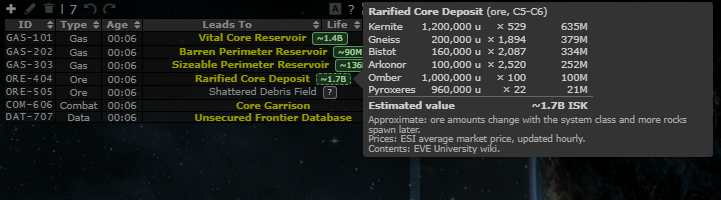
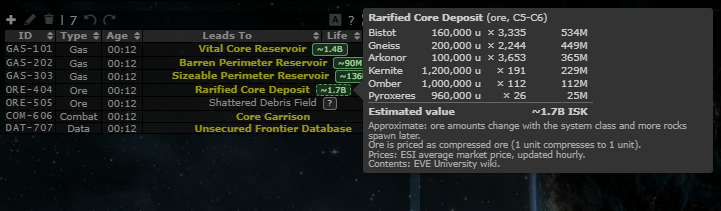
Site value: price ore as compressed ore; refetch prices when the wanted items change

Changed region(s): [[0.0, 0.0, 1.0, 0.63], [0.4577, 0.57, 1.0, 0.84]]

diff --git a/app/js/fork/site-values.js b/app/js/fork/site-values.js
@@ -72,11 +72,12 @@ const siteValues = {
 			const type = data.types && data.types[String(row[0])];
 			const units = Number(row[1]);
 			if (!type || !(units > 0)) { return; }
-			const p = siteValues.priceOf(row[0], live, fallback);
+			// Ore is priced as its compressed form (priceAs), 1 unit for 1 unit: raw ore hardly trades
+			const p = siteValues.priceOf(type.priceAs || row[0], live, fallback);
 			if (!p) { out.missing.push(type.name); return; }
 			if (!p.live) { out.live = false; }
 			const isk = units * p.price;
-			out.lines.push({ name: String(type.name), units: units, m3: units * (Number(type.m3) || 0), price: p.price, isk: isk });
+			out.lines.push({ name: String(type.name), units: units, m3: units * (Number(type.m3) || 0), price: p.price, isk: isk, compressed: !!type.priceAs });
 			out.total += isk;
 		});
 		if (!out.lines.length) { out.status = "unverified"; out.live = false; }
@@ -131,6 +132,7 @@ const siteValues = {
 		const notes = [];
 		if (site.kind === "gas") { notes.push("Two clouds; Sleepers usually arrive 15-20 min after the first ship lands."); }
 		if (est.status === "approximate") { notes.push("Approximate: ore amounts change with the system class and more rocks spawn later."); }
+		if (est.lines.some(function(l) { return l.compressed; })) { notes.push("Ore is priced as compressed ore (1 unit compresses to 1 unit)."); }
 		if (est.missing.length) { notes.push("No price for " + e(est.missing.join(", ")) + "."); }
 		notes.push(est.live ? "Prices: ESI average market price, updated hourly." : "Prices: ESI average market price of " + e(pricesDate || "an earlier date") + " (live prices unavailable).");
 		notes.push("Contents: EVE University wiki.");

diff --git a/app/js-test/fork/site-values.test.js b/app/js-test/fork/site-values.test.js
@@ -60,6 +60,15 @@ describe('Gas and ore site value', () => {
 		assert.strictEqual(mixed.live, false);
 	});
 
+	it('prices ore as its compressed form when the type says so', () => {
+		const d = Object.assign({}, data, { types: Object.assign({}, data.types, { 3: { name: 'Rock', m3: 16, priceAs: 9 } }) });
+		const est = siteValues.estimate(index['rarified core deposit'], d, { 3: 1, 9: 3000 });
+		assert.strictEqual(est.total, 100000 * 3000);
+		assert.strictEqual(est.lines[0].compressed, true);
+		assert.ok(siteValues.tooltip(index['rarified core deposit'], est).indexOf('priced as compressed ore') > 0);
+		assert.strictEqual(siteValues.estimate(index['rarified core deposit'], d, null).missing[0], 'Rock');
+	});
+
 	it('lists items without any price and leaves them out of the total', () => {
 		const d = Object.assign({}, data, { fallbackPrices: { prices: { 2: 50000 } } });
 		const est = siteValues.estimate(index['vital core reservoir'], d, null);
@@ -146,8 +155,10 @@ describe('Gas and ore site data (public/site-values/sites.json)', () => {
 		});
 		Object.keys(data.types).forEach(id => {
 			assert.ok(data.types[id].m3 > 0, id);
-			assert.ok(data.fallbackPrices.prices[id] > 0, 'price of ' + id);
+			assert.ok(data.fallbackPrices.prices[data.types[id].priceAs || id] > 0, 'price of ' + id);
 		});
+		// every ore is priced as its compressed form
+		data.sites.filter(s => s.kind === 'ore' && s.contents).forEach(s => s.contents.forEach(([id]) => assert.ok(data.types[id].priceAs, s.name + ': ' + id)));
 	});
 
 	it('gives every verified gas site a value with the stored prices', () => {

diff --git a/market_prices.inc.php b/market_prices.inc.php
@@ -20,7 +20,11 @@ function market_prices_types(?string $sitesFile = null) {
 	$data = json_decode((string) @file_get_contents($sitesFile), true);
 	$ids = array();
 	if (is_array($data) && isset($data['types']) && is_array($data['types'])) {
-		foreach (array_keys($data['types']) as $id) if (ctype_digit((string) $id)) $ids[(int) $id] = true;
+		foreach ($data['types'] as $id => $type) {
+			if (ctype_digit((string) $id)) $ids[(int) $id] = true;
+			// ore is priced as its compressed form
+			if (is_array($type) && isset($type['priceAs']) && ctype_digit((string) $type['priceAs'])) $ids[(int) $type['priceAs']] = true;
+		}
 	}
 	return $ids;
 }
@@ -50,6 +54,7 @@ function market_prices_normalise($cache) {
 		'fetched'   => isset($cache['fetched']) && is_numeric($cache['fetched']) ? (int) $cache['fetched'] : 0,
 		'attempted' => isset($cache['attempted']) && is_numeric($cache['attempted']) ? (int) $cache['attempted'] : 0,
 		'prices'    => $prices,
+		'types'     => isset($cache['types']) && is_string($cache['types']) ? $cache['types'] : '',
 	);
 }
 
@@ -90,7 +95,11 @@ function market_prices_get(?callable $fetch = null, $now = null, ?string $file =
 	$now = $now ?? time();
 	$file = $file ?? market_prices_cache_file();
 	$cache = market_prices_read($file);
-	$due = function($c) use ($now) { return $now - $c['fetched'] >= MARKET_PRICES_TTL && $now - $c['attempted'] >= MARKET_PRICES_RETRY; };
+	$wanted = $wanted ?? market_prices_types();
+	ksort($wanted);
+	$types = implode(',', array_keys($wanted));
+	// due after the TTL, or at once when sites.json now wants other items than the copy has; never within the retry wait
+	$due = function($c) use ($now, $types) { return ($now - $c['fetched'] >= MARKET_PRICES_TTL || $c['types'] !== $types) && $now - $c['attempted'] >= MARKET_PRICES_RETRY; };
 
 	if ($due($cache)) {
 		$lock = @fopen(preg_replace('/(\.json)?$/', '.lock.json', $file, 1), 'c');
@@ -98,11 +107,12 @@ function market_prices_get(?callable $fetch = null, $now = null, ?string $file =
 			try {
 				$cache = market_prices_read($file);   // another request may have refreshed meanwhile
 				if ($due($cache)) {
-					[$prices, $error] = $fetch($wanted ?? market_prices_types());
+					[$prices, $error] = $fetch($wanted);
 					$cache['attempted'] = $now;
 					if ($prices !== null) {
 						$cache['fetched'] = $now;
 						$cache['prices'] = $prices;
+						$cache['types'] = $types;
 					} else {
 						esi_log('market prices refresh failed: ' . $error);
 					}

diff --git a/tests/market_prices_test.php b/tests/market_prices_test.php
@@ -26,11 +26,12 @@ check('parse keeps wanted types with a price', market_prices_parse($body, $wante
 check('parse: not json', market_prices_parse('<html>', $wanted), null);
 check('parse: not a list', market_prices_parse('{"x":1}', $wanted), null);
 check('parse: empty list', market_prices_parse('[]', $wanted), array());
-check('normalise damaged', market_prices_normalise('x'), array('fetched' => 0, 'attempted' => 0, 'prices' => array()));
+check('normalise damaged', market_prices_normalise('x'), array('fetched' => 0, 'attempted' => 0, 'prices' => array(), 'types' => ''));
 check('normalise drops bad rows', market_prices_normalise(array('prices' => array('22' => 5, 'x' => 1, '20' => 'abc')))['prices'], array('22' => 5.0));
 
 $types = market_prices_types();
 check('types come from sites.json', isset($types[30378]) && isset($types[22]) && count($types) >= 10, true);
+check('types include the compressed ore the ore is priced as', isset($types[62568]), true);
 
 $file = tempnam(sys_get_temp_dir(), 'market-prices-test-');
 unlink($file);
@@ -57,6 +58,14 @@ check('within the retry wait: no ESI call', $calls, 2);
 $r = market_prices_get($ok, $t + MARKET_PRICES_TTL + MARKET_PRICES_RETRY, $file, $wanted);
 check('after the retry wait: asks again', $calls, 3);
 check('new time', $r['fetched'], $t + MARKET_PRICES_TTL + MARKET_PRICES_RETRY);
+
+$more = $wanted + array(62568 => true);
+$r = market_prices_get($ok, $t + MARKET_PRICES_TTL + MARKET_PRICES_RETRY + 1, $file, $more);
+check('other wanted items: within the retry wait, no call', $calls, 3);
+market_prices_get($ok, $t + MARKET_PRICES_TTL + 2 * MARKET_PRICES_RETRY, $file, $more);
+check('other wanted items: asks at once after the retry wait, before the TTL', $calls, 4);
+market_prices_get($ok, $t + MARKET_PRICES_TTL + 2 * MARKET_PRICES_RETRY + 10, $file, array(62568 => true) + $wanted);
+check('same items in another order: no call', $calls, 4);
 
 $empty = tempnam(sys_get_temp_dir(), 'market-prices-test-');
 unlink($empty);

diff --git a/changes/2026-11-15-site-value-estimate/README.md b/changes/2026-11-15-site-value-estimate/README.md
@@ -30,8 +30,10 @@ Tip: none. The chip is visible on the row itself, and its tooltip explains it.
   `unverified` and get a grey "?" chip with the reason instead of a value: Infrequent Core Deposit (its page says its
   quantities predate the 19.11 mining changes) and Shattered Debris Field (ore variants listed by pre-2024 names).
 - Prices: ESI's public `/markets/prices/` average price (no key, no new host), fetched by the server at most hourly
-  for everyone and cut to the 15 items we need (`market_prices.inc.php`, `public/market_prices.php`, cache file
-  `cache/market-prices.json`). Until it answers, or if ESI is down, the prices stored in `sites.json` (2026-11-15) are
+  for everyone and cut to the items we need (`market_prices.inc.php`, `public/market_prices.php`, cache file
+  `cache/market-prices.json`; refetched early when `sites.json` asks for other items). Ore is priced as its compressed
+  form (`priceAs`), 1 unit for 1 unit (both have portion size 100 in the SDE; compressed is 1/100 of the volume), because
+  raw ore barely trades and miners sell it compressed. Until it answers, or if ESI is down, the prices stored in `sites.json` (2026-11-15) are
   used and the tooltip says so.
 - Code: `app/js/fork/site-values.js` (pure logic in `siteValues`, mocha tests in `app/js-test/fork/site-values.test.js`,
   which also checks the data file), `app/css/fork/site-values.css`; PHP test `tests/market_prices_test.php`.
